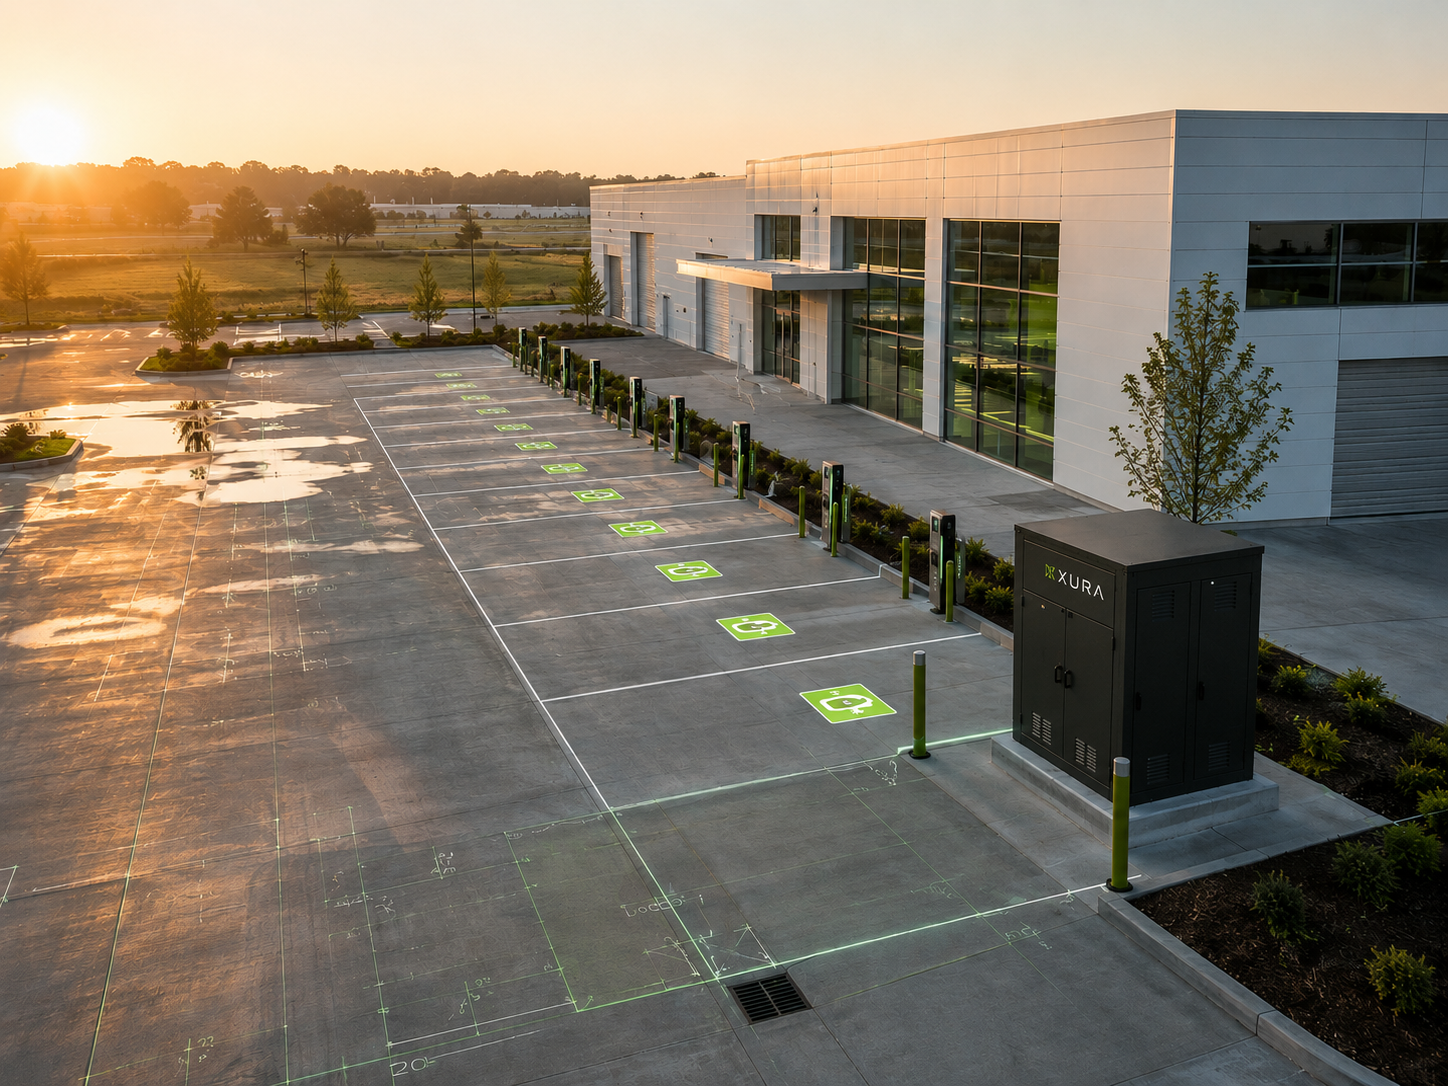
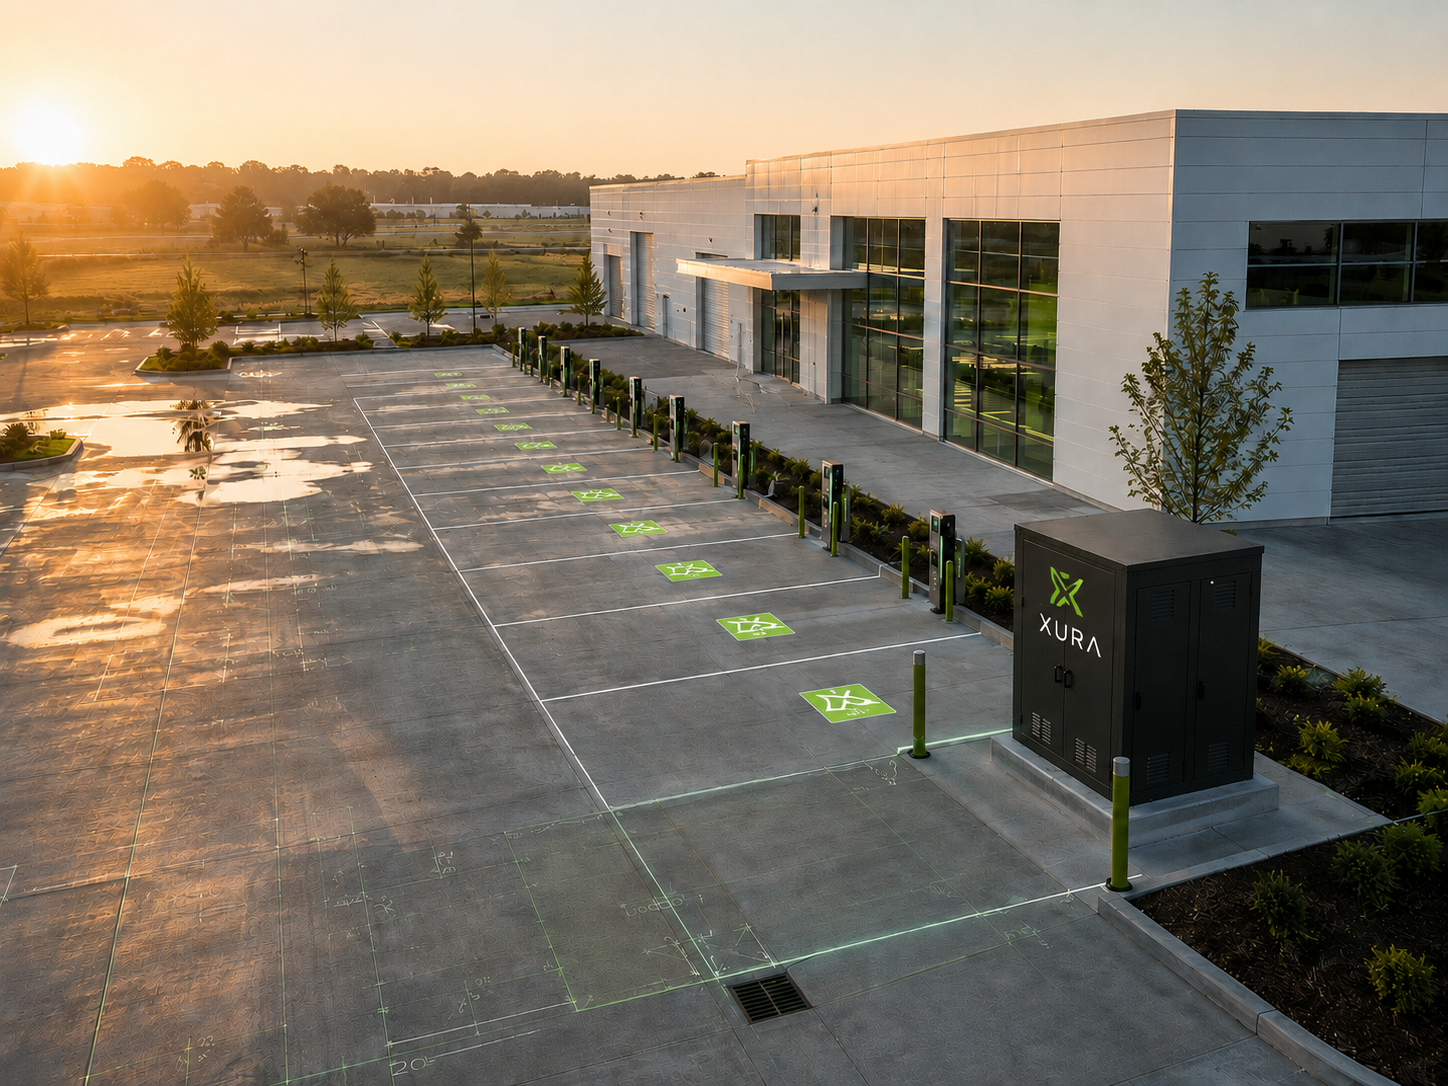
feat : few changes

diff --git a/app/login/page.tsx b/app/login/page.tsx
@@ -122,7 +122,7 @@ function LoginCard() {
         >
           <div className="relative overflow-hidden rounded-3xl border border-paper/[0.08] bg-ink-2/60 backdrop-blur-md sm:rounded-[32px]">
             <div className="relative p-5 sm:p-7">
-              {/* Top row — status (left) + mode toggle (right) */}
+              {/* Top row — status */}
               <div className="mb-5 flex items-center justify-between gap-3">
                 <span className="flex items-center gap-2 font-mono text-[10px] font-medium uppercase tracking-[0.2em] text-accent">
                   <span className="relative inline-flex h-1.5 w-1.5">
@@ -130,43 +130,9 @@ function LoginCard() {
                   </span>
                   Secure node
                 </span>
-
-                <div
-                  role="tablist"
-                  aria-label="Authentication mode"
-                  className="relative flex items-center rounded-full border border-paper/[0.08] bg-paper/[0.02] p-1"
-                >
-                  {(["signin", "signup"] as Mode[]).map((m) => {
-                    const active = mode === m;
-                    return (
-                      <button
-                        key={m}
-                        role="tab"
-                        aria-selected={active}
-                        type="button"
-                        onClick={() => setMode(m)}
-                        className={`relative rounded-full px-3 py-1.5 font-mono text-[10px] font-medium uppercase tracking-[0.14em] transition-colors duration-300 ${
-                          active ? "text-ink" : "text-paper/65 hover:text-paper"
-                        }`}
-                      >
-                        {active && (
-                          <motion.span
-                            layoutId="login-mode-bg"
-                            transition={{
-                              type: "spring",
-                              stiffness: 380,
-                              damping: 30,
-                            }}
-                            className="absolute inset-0 -z-10 rounded-full bg-accent"
-                          />
-                        )}
-                        <span className="relative z-10">
-                          {m === "signin" ? "Sign in" : "Sign up"}
-                        </span>
-                      </button>
-                    );
-                  })}
-                </div>
+                <span className="font-mono text-[10px] font-medium uppercase tracking-[0.16em] text-mute">
+                  {mode === "signin" ? "Sign in" : "Sign up"}
+                </span>
               </div>
 
               {/* Channel tabs */}
@@ -251,6 +217,32 @@ function LoginCard() {
                   />
                 </motion.form>
               </AnimatePresence>
+
+              <div className="mt-5 border-t border-paper/[0.06] pt-4 text-center text-[12.5px] text-paper/65">
+                {mode === "signin" ? (
+                  <>
+                    Don&apos;t have an account?{" "}
+                    <button
+                      type="button"
+                      onClick={() => setMode("signup")}
+                      className="cursor-pointer font-medium text-accent transition-colors hover:text-paper"
+                    >
+                      Sign up
+                    </button>
+                  </>
+                ) : (
+                  <>
+                    Already have an account?{" "}
+                    <button
+                      type="button"
+                      onClick={() => setMode("signin")}
+                      className="cursor-pointer font-medium text-accent transition-colors hover:text-paper"
+                    >
+                      Sign in
+                    </button>
+                  </>
+                )}
+              </div>
             </div>
           </div>
         </div>

diff --git a/app/components/Navbar.tsx b/app/components/Navbar.tsx
@@ -21,6 +21,21 @@ export function Navbar() {
     ? "/login?tab=advertisers"
     : "/login";
 
+  const handleNavClick = (href: string) => (e: React.MouseEvent<HTMLAnchorElement>) => {
+    if (!href.includes("#")) return;
+    const [path, hash] = href.split("#");
+    const onSamePage = (path === "" || path === "/") && (pathname === "/" || pathname === "");
+    if (!onSamePage || !hash) return;
+    const el = document.getElementById(hash);
+    if (!el) return;
+    e.preventDefault();
+    setOpen(false);
+    el.scrollIntoView({ behavior: "smooth", block: "start" });
+    if (window.history.replaceState) {
+      window.history.replaceState(null, "", `#${hash}`);
+    }
+  };
+
   useEffect(() => {
     if (!open) return;
     const prev = document.body.style.overflow;
@@ -57,6 +72,7 @@ export function Navbar() {
             <li key={item.label}>
               <Link
                 href={item.href}
+                onClick={handleNavClick(item.href)}
                 className="group relative transition-colors hover:text-paper"
               >
                 <span>{item.label}</span>
@@ -132,7 +148,10 @@ export function Navbar() {
                   <li key={item.label}>
                     <Link
                       href={item.href}
-                      onClick={() => setOpen(false)}
+                      onClick={(e) => {
+                        handleNavClick(item.href)(e);
+                        setOpen(false);
+                      }}
                       className="group flex items-center justify-between rounded-2xl border border-transparent px-4 py-3.5 text-[13px] font-medium uppercase tracking-[0.1em] text-paper/80 transition-colors hover:border-paper/10 hover:bg-paper/[0.04] hover:text-paper"
                     >
                       <span>{item.label}</span>

diff --git a/app/globals.css b/app/globals.css
@@ -35,6 +35,14 @@ body {
 
 html {
   -webkit-text-size-adjust: 100%;
+  scroll-behavior: smooth;
+  scroll-padding-top: 0;
+}
+
+@media (prefers-reduced-motion: reduce) {
+  html {
+    scroll-behavior: auto;
+  }
 }
 
 body {
